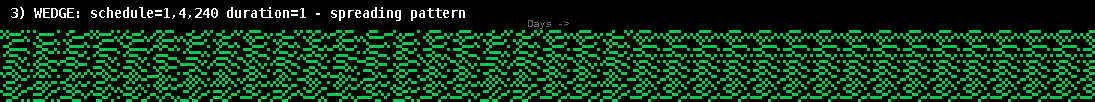
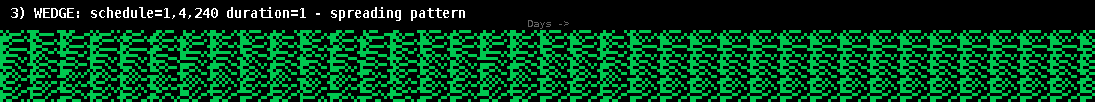
Fix wedge scheduling: reschedule before pixel draw for correct patterns
The root cause was that pixels were drawn BEFORE reschedule ran, so when
reschedule created a new time window overlapping the current hour, the
pixel was already incorrectly set to black. Restructured StandardJob to
use stepAndCheck() which detects transitions and reschedules FIRST, then
checks if the current hour falls in the (possibly updated) window.

https://claude.ai/code/session_01F311SXdwXS95XDa5VEHYLw

diff --git a/LiquidMapGenerator.java b/LiquidMapGenerator.java
@@ -47,27 +47,28 @@ public class LiquidMapGenerator {
         int currentHour;
         double nextStartHour, nextEndHour;
         Periodicity schedule, duration;
-        boolean isRunning, prevRunning;
+        boolean wasRunningLastHour;
 
         StandardJob(Periodicity schedule, Periodicity duration) {
             this.schedule = schedule;
             this.duration = duration;
             nextStartHour = 0;
             nextEndHour = Math.ceil(duration.get(0));
+            wasRunningLastHour = false;
         }
 
-        boolean checkRunning() {
-            prevRunning = isRunning;
-            isRunning = currentHour >= nextStartHour && currentHour < nextEndHour;
-            return isRunning;
+        boolean isInWindow() {
+            return currentHour >= nextStartHour && currentHour < nextEndHour;
         }
 
-        void reschedule() {
-            if (!isRunning && prevRunning) {
+        /** Reschedule first, then report whether this hour is running. */
+        boolean stepAndCheck() {
+            // Detect running->not-running transition from previous hour
+            boolean nowInWindow = isInWindow();
+            if (wasRunningLastHour && !nowInWindow) {
+                // Job just finished — schedule the next run
                 nextStartHour += schedule.get(currentHour);
                 nextEndHour = nextStartHour + Math.ceil(duration.get(currentHour));
-                // Re-check: the new window may include the current hour
-                isRunning = currentHour >= nextStartHour && currentHour < nextEndHour;
             }
             // Advance past any windows we've completely missed
             while (currentHour >= nextEndHour) {
@@ -75,8 +76,11 @@ public class LiquidMapGenerator {
                 nextStartHour += schedule.get(currentHour);
                 nextEndHour = nextStartHour + Math.ceil(duration.get(currentHour));
                 if (nextStartHour <= oldStart) break; // safety valve
-                isRunning = currentHour >= nextStartHour && currentHour < nextEndHour;
             }
+            // Now check if running in the (possibly updated) window
+            boolean running = isInWindow();
+            wasRunningLastHour = running;
+            return running;
         }
     }
 
@@ -90,20 +94,13 @@ public class LiquidMapGenerator {
             int x = hour / numRows;
             int y = hour % numRows;
 
-            for (StandardJob job : jobs) {
-                job.currentHour = hour;
-            }
-
             boolean anyRunning = false;
             for (StandardJob job : jobs) {
-                if (job.checkRunning()) anyRunning = true;
+                job.currentHour = hour;
+                if (job.stepAndCheck()) anyRunning = true;
             }
 
             image.setRGB(x, y, anyRunning ? runColor : noRunColor);
-
-            for (StandardJob job : jobs) {
-                job.reschedule();
-            }
         }
 
         // Scale up the image
